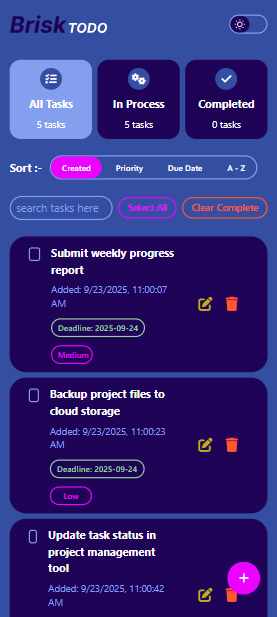
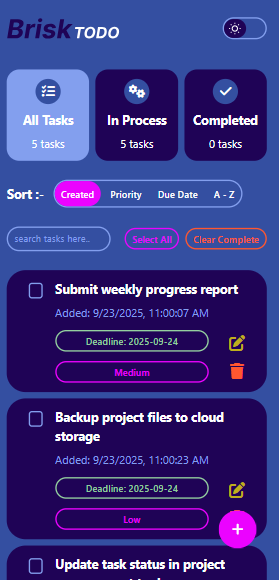
fix: improve responsiveness on small screens

diff --git a/index.html b/index.html
@@ -65,7 +65,7 @@
 
      <!-- Modal -->
       <div id="taskModal" class="hidden fixed inset-0 bg-black bg-opacity-50 flex justify-center items-center z-50">
-         <form id="taskForm"  class="bg-[#344FA1] dark:bg-black rounded-lg shadow-lg w-96 p-6 space-y-6">
+         <form id="taskForm"  class="bg-[#344FA1] dark:bg-black rounded-lg shadow-lg w-80 md:w-96 p-4 md:p-6 space-y-6">
             <input id="taskTitle" type="text" placeholder="Write your task here" class="bg-transparent  w-full placeholder:text-[#839FEE] text-white border-2 p-1 px-2 focus:ring-2 focus:ring-white outline-none rounded-3xl border-[#839FEE]  ">
 
             <div class="flex justify-between items-center gap-3">
@@ -79,7 +79,7 @@
                </div>
                <div class="w-full">
                   <label class="text-base font-semibold text-white block mb-2">Due Date :-</label>
-                  <input type="date" id="taskDueDate" class="bg-transparent w-full text-white font-semibold border-2 p-1 px-2 focus:ring-2 focus:ring-white outline-none rounded-3xl border-[#839FEE] cursor-pointer">
+                  <input type="date" id="taskDueDate" class="bg-transparent w-full placeholder:text-white text-white font-semibold border-2 p-1 px-2 focus:ring-2 focus:ring-white outline-none rounded-3xl border-[#839FEE] cursor-pointer">
                   </input>
                </div>
             </div>
@@ -132,10 +132,10 @@
       <div class="md:w-2/3  flex gap-3 md:gap-8 items-center">
          <h3 class="lg:text-xl md:text-lg text-base font-bold text-white">Sort :-</h3>
          <div class="border-2 border-[#839FEE] rounded-3xl">
-            <button  data-sort="created" class="sort-btn transition-all duration-300 ease-in-out px-4 lg:px-8 py-2 font-semibold text-white rounded-3xl bg-[#EB03FF] hover:text-opacity-65 text-xs md:text-base">Created</button>
-            <button  data-sort="priority" class="sort-btn transition-all duration-300 ease-in-out px-4 lg:px-8 py-2 font-semibold text-white rounded-3xl hover:text-opacity-65 text-xs md:text-base">Priority</button>
-            <button  data-sort="dueDate" class="sort-btn transition-all duration-300 ease-in-out px-4 lg:px-8 py-2 font-semibold text-white rounded-3xl hover:text-opacity-65 text-xs md:text-base">Due Date</button>
-            <button  data-sort="az" class="sort-btn transition-all duration-300 ease-in-out px-4 lg:px-8 py-2 font-semibold text-white rounded-3xl hover:text-opacity-65 text-xs md:text-base">A - Z</button>
+            <button  data-sort="created" class="sort-btn transition-all duration-300 ease-in-out px-2 md:px-4 lg:px-8 py-2 font-semibold text-white rounded-3xl bg-[#EB03FF] hover:text-opacity-65 text-xs md:text-base">Created</button>
+            <button  data-sort="priority" class="sort-btn transition-all duration-300 ease-in-out px-2 md:px-4  lg:px-8 py-2 font-semibold text-white rounded-3xl hover:text-opacity-65 text-xs md:text-base">Priority</button>
+            <button  data-sort="dueDate" class="sort-btn transition-all duration-300 ease-in-out px-2 md:px-4  lg:px-8 py-2 font-semibold text-white rounded-3xl hover:text-opacity-65 text-xs md:text-base">Due Date</button>
+            <button  data-sort="az" class="sort-btn transition-all duration-300 ease-in-out px-2 md:px-4  lg:px-8 py-2 font-semibold text-white rounded-3xl hover:text-opacity-65 text-xs md:text-base">A - Z</button>
          </div>
       </div>
 
@@ -149,12 +149,13 @@
    <div class="flex justify-between items-center">
       <!-- search tasks small device-->
       <div class="w-2/5">
-          <input id="" type="text" placeholder="search tasks here" class="searchInput bg-transparent  md:hidden w-full placeholder:text-[#839FEE] text-white border-2 p-1 px-2 focus:ring-2 focus:ring-white outline-none rounded-3xl border-[#839FEE]  ">
+          <input id="" type="text" placeholder="search tasks here.." class="searchInput bg-transparent placeholder:text-xs md:hidden w-full placeholder:text-[#839FEE] text-white border-2
+          pb-1 px-2 focus:ring-2 focus:ring-white outline-none rounded-3xl border-[#839FEE]  ">
       </div>
       
       <div class="flex gap-2">
-         <button id="selectAllBtn" class="px-3 py-1 md:px-4 md:py-1  md:text-base text-sm  font-semibold text-[#EB03FF] rounded-3xl border-2 border-[#EB03FF] hover:text-opacity-65">Select All</button>
-         <button id="clearCompleteBtn" class="px-3 py-1 md:px-4 md:py-1  md:text-base text-sm   font-semibold text-[#FF5730] border-2 border-[#FF5730] rounded-3xl hover:text-opacity-65">Clear Complete</button>
+         <button id="selectAllBtn" class="px-2 py-1 md:px-4 md:py-1  md:text-base text-xs  font-semibold text-[#EB03FF] rounded-3xl border-2 border-[#EB03FF] hover:text-opacity-65">Select All</button>
+         <button id="clearCompleteBtn" class="px-2 p-1 md:px-4 md:py-1  md:text-base text-xs   font-semibold text-[#FF5730] border-2 border-[#FF5730] rounded-3xl hover:text-opacity-65">Clear Complete</button>
       </div>
    </div>
 
@@ -166,7 +167,7 @@
   <!-- task list -->
    <div id="taskList" class="space-y-2" >
    </div>
-   
+
    </div>
    </main>
 </body>

diff --git a/script.js b/script.js
@@ -154,27 +154,31 @@
     taskDiv.setAttribute("data-id", task.id)
 
           taskDiv.innerHTML = `
-        <div class="flex justify-between bg-[#1F0356] p-3 rounded-3xl">
-          <div class="flex items-start">
-            <input type="checkbox" ${task.completed ? "checked" : ""}
+  
+          <div class="flex  bg-[#1F0356] p-3 rounded-3xl">
+         
+              <input type="checkbox" ${task.completed ? "checked" : ""}
               class="mx-4 mt-1 cursor-pointer h-5 w-5 border-2 border-[#839FEE] hover:border-opacity-65 rounded appearance-none bg-transparent checked:bg-[#94D09F]" />
-            <div>
+            <div class="w-full">
+          
               <h3 class="text-base  font-bold ${task.completed ? "line-through text-[#94D09F]" : "text-white"}">${task.title}</h3>
-              <div class="flex flex-col md:flex-row gap-3 md:items-center mt-2 text-[#839FEE]">
+              <div class="flex justify-between w-full">
+               <div class="flex flex-col md:flex-row gap-3 md:items-center mt-2 text-[#839FEE]">
                 <span class="text-sm">Added: <span class="createdAt">${task.createdAt}</span></span>
               
-                 <span class="due px-2 md:px-3 py-1 text-xs font-medium text-[#94D09F] rounded-3xl border-2 border-[#94D09F] text-center w-3/4 md:w-auto">Deadline: <span class="dueDate">${task.dueDate || "No date"}</span></span>
-                <span class="priority px-2 md:px-3 py-1 text-xs font-medium text-[#EB03FF] rounded-3xl border-2 border-[#EB03FF] w-1/3 text-center md:w-auto">${task.priority}</span>
-               
-                
+                 <span class="due px-2 md:px-3 py-1 text-xs font-medium text-[#94D09F] rounded-3xl border-2 border-[#94D09F] text-center ">Deadline: <span class="dueDate">${task.dueDate || "No date"}</span></span>
+                <span class="priority px-2 md:px-3 py-1 text-xs font-medium text-[#EB03FF] rounded-3xl border-2 border-[#EB03FF]  text-center">${task.priority}</span>
               </div>
-            </div>
-          </div>
-
-          <div class="flex gap-5 items-center mx-8">
+              
+              <div class="flex flex-col md:flex-row gap-2 md:gap-5 items-center justify-end mx-4 md:mx-8">
             <i class="fa-solid fa-pen-to-square text-[#BFAF1C] text-xl cursor-pointer hover:text-opacity-65 edit-icon"></i>
             <i class="fa-solid fa-trash text-[#FF5730] text-xl cursor-pointer hover:text-opacity-65 delete-icon"></i>
           </div>
+              </div>
+              
+            </div>
+
+          
         </div>
       `;
 

diff --git a/README.md b/README.md
@@ -6,7 +6,7 @@ A fully-functional **Todo app** developed with HTML, Tailwind CSS, and vanilla J
 
 ## 🔗 Live Demo
 
-👉 [View Project on GitHub Pages](#)
+👉 [View Project](https://tammykhan.github.io/Todo-App-js/)
 
 ---
 
